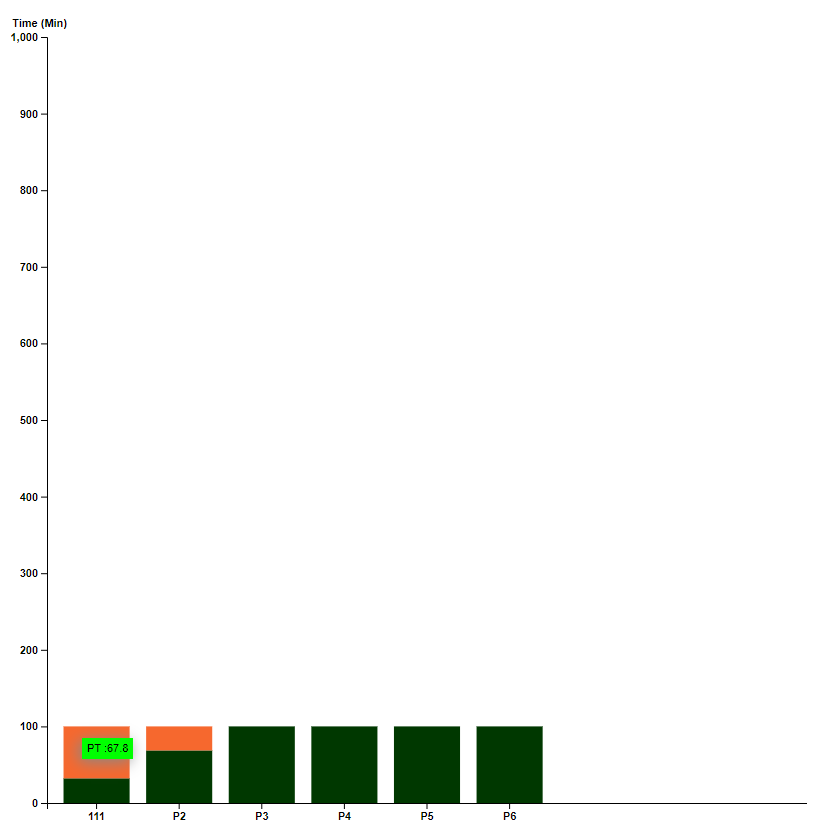
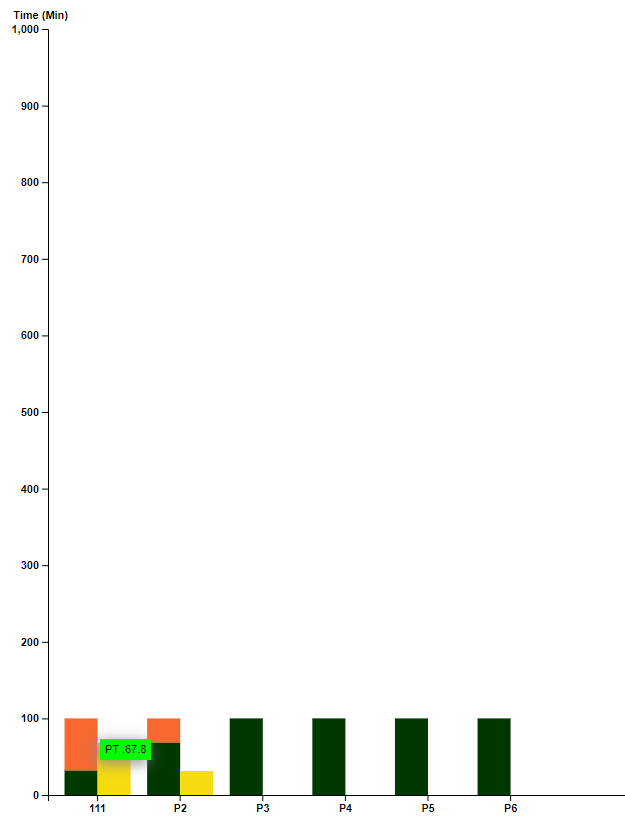
update

Changed region(s): [[0.0, 0.0, 0.6992, 0.9952], [0.76, 0.8397, 0.8208, 0.9641]]

diff --git a/stack_group.js b/stack_group.js
@@ -14,7 +14,11 @@ var booleandisplayticklineandlabel = true
 var configuratin_data_temp = [
     {
         list_type: "NPT,PT",
-        list_color: "#003800,#f6682e,#f6db0f",
+        list_color: "#003800,#f6682e",
+    },
+    {
+        list_type: "PT",
+        list_color: "#f6db0f",
     },
     // {
     //     list_type: "type1,type3,type2",

diff --git a/README.md b/README.md
@@ -11,7 +11,7 @@
 
 <!-- <h4 align="center">A minimal Markdown Editor desktop app built on top of <a target="_blank">Electron</a>.</h4> -->
 
-![Chat Preview](https://github.com/zainuddin-maker/Pie-Chart-/blob/master/test.PNG?raw=true)
+![Chat Preview](https://github.com/zainuddin-maker/Bar-Stack-and-Group-Chart/blob/master/test.PNG?raw=true)
 <!-- ![screenshot](https://github.com/zainuddin-maker/Double-Y-Bar-With-Line-Chart-/blob/master/test.gif?raw=true) -->
 
 
@@ -21,52 +21,53 @@ make a pie chart with the value (in percent) and also the legend of each element
 ## Example Data
 - Data Value
 
-        [
-            {
-                "id": 1,
-                "value": "2"
-            },
-            {
-                "id": 2,
-                "value": "5"
-            },
-            {
-                "id": 1,
-                "value": "2"
-            },
-            {
-                "id": 2,
-                "value": "9"
-            }
-        ]
+            [
+                {
+                    Category: "111",
+                    NPT: 32.2,
+                    PT:67.8,
+                
+                },
+                {
+                    Category: "P2",
+                    NPT: 68.63,
+                    PT:31.37,
+                },
+                {
+                    Category: "P3",
+                    NPT: 100,
+                    PT:0,
+                },
+                {
+                    Category: "P4",
+                    NPT: 100,
+                    PT:0,
+                },
+                {
+                    Category: "P5",
+                    NPT: 100,
+                    PT:0,
+                },
+                {
+                    Category: "P6",
+                    NPT: 100,
+                    PT:0,
+                },
 
-- Data Option
+            ]
 
-        {
-            "color":  [
-                    {
-                        "id": 1,
-                        "value": "#00ff00"
-                    },
-                    {
-                        "id": 2,
-                        "value": "#ff00ff"
-                    }
-                ]
-            ,
-            "type": 
-                [
-                    {
-                        "id": 1,
-                        "value": "Example 1"
-                    },
-                    {
-                        "id": 2,
-                        "value": "Example 2"
-                    }
-                ]
-            
-        }
+- Configuratin Data
+
+            [
+                {
+                    list_type: "NPT,PT",
+                    list_color: "#003800,#f6682e",
+                },
+                 {
+                    list_type: "PT",
+                    list_color: "#f6db0f",
+                }
+            ]
 
 ## Usage example
 
